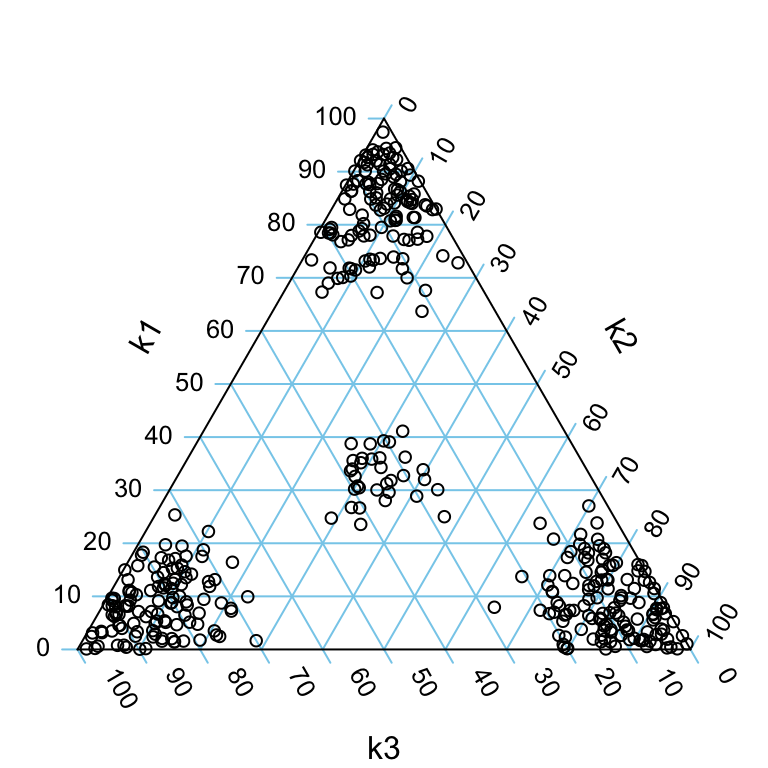
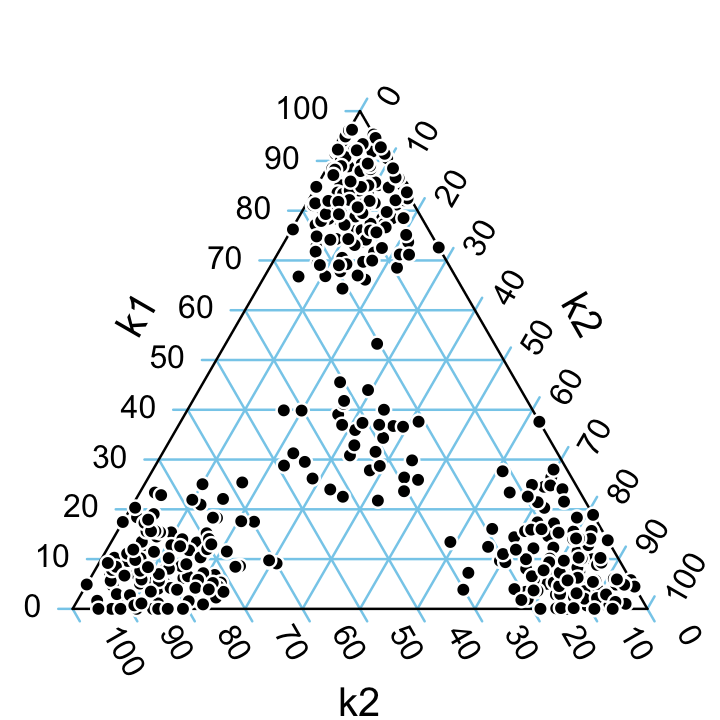
Implemented function plot_tsne for topics_vs_clusters.

diff --git a/docs/topics_vs_clusters.html b/docs/topics_vs_clusters.html
@@ -303,7 +303,7 @@ $(document).ready(function () {
 
 <p>
 <button type="button" class="btn btn-default btn-workflowr btn-workflowr-report" data-toggle="collapse" data-target="#workflowr-report">
-<span class="glyphicon glyphicon-list" aria-hidden="true"></span> workflowr <span class="glyphicon glyphicon-ok text-success" aria-hidden="true"></span>
+<span class="glyphicon glyphicon-list" aria-hidden="true"></span> workflowr <span class="glyphicon glyphicon-exclamation-sign text-danger" aria-hidden="true"></span>
 </button>
 </p>
 <div id="workflowr-report" class="collapse">
@@ -312,7 +312,7 @@ $(document).ready(function () {
 <a data-toggle="tab" href="#summary">Summary</a>
 </li>
 <li>
-<a data-toggle="tab" href="#checks"> Checks <span class="glyphicon glyphicon-ok text-success" aria-hidden="true"></span> </a>
+<a data-toggle="tab" href="#checks"> Checks <span class="glyphicon glyphicon-exclamation-sign text-danger" aria-hidden="true"></span> </a>
 </li>
 <li>
 <a data-toggle="tab" href="#versions">Past versions</a>
@@ -324,7 +324,7 @@ $(document).ready(function () {
 <strong>Last updated:</strong> 2020-08-13
 </p>
 <p>
-<strong>Checks:</strong> <span class="glyphicon glyphicon-ok text-success" aria-hidden="true"></span> 7 <span class="glyphicon glyphicon-exclamation-sign text-danger" aria-hidden="true"></span> 0
+<strong>Checks:</strong> <span class="glyphicon glyphicon-ok text-success" aria-hidden="true"></span> 6 <span class="glyphicon glyphicon-exclamation-sign text-danger" aria-hidden="true"></span> 1
 </p>
 <p>
 <strong>Knit directory:</strong> <code>single-cell-topics/analysis/</code> <span class="glyphicon glyphicon-question-sign" aria-hidden="true" title="This is the local directory in which the code in this file was executed."> </span>
@@ -340,12 +340,12 @@ This reproducible <a href="http://rmarkdown.rstudio.com">R Markdown</a> analysis
 <div class="panel panel-default">
 <div class="panel-heading">
 <p class="panel-title">
-<a data-toggle="collapse" data-parent="#workflowr-checks" href="#strongRMarkdownfilestronguptodate"> <span class="glyphicon glyphicon-ok text-success" aria-hidden="true"></span> <strong>R Markdown file:</strong> up-to-date </a>
+<a data-toggle="collapse" data-parent="#workflowr-checks" href="#strongRMarkdownfilestronguncommittedchanges"> <span class="glyphicon glyphicon-exclamation-sign text-danger" aria-hidden="true"></span> <strong>R Markdown file:</strong> uncommitted changes </a>
 </p>
 </div>
-<div id="strongRMarkdownfilestronguptodate" class="panel-collapse collapse">
+<div id="strongRMarkdownfilestronguncommittedchanges" class="panel-collapse collapse">
 <div class="panel-body">
-<p>Great! Since the R Markdown file has been committed to the Git repository, you know the exact version of the code that produced these results.</p>
+<p>The R Markdown file has unstaged changes. To know which version of the R Markdown file created these results, you’ll want to first commit it to the Git repo. If you’re still working on the analysis, you can ignore this warning. When you’re finished, you can run <code>wflow_publish</code> to commit the R Markdown file and build the HTML.</p>
 </div>
 </div>
 </div>
@@ -412,16 +412,16 @@ This reproducible <a href="http://rmarkdown.rstudio.com">R Markdown</a> analysis
 <div class="panel panel-default">
 <div class="panel-heading">
 <p class="panel-title">
-<a data-toggle="collapse" data-parent="#workflowr-checks" href="#strongRepositoryversionstrongahrefhttpsgithubcomstephenslabsinglecelltopicstree41b9d8a487fbffcc681161f890de309888069e74targetblank41b9d8aa"> <span class="glyphicon glyphicon-ok text-success" aria-hidden="true"></span> <strong>Repository version:</strong> <a href="https://github.com/stephenslab/single-cell-topics/tree/41b9d8a487fbffcc681161f890de309888069e74" target="_blank">41b9d8a</a> </a>
+<a data-toggle="collapse" data-parent="#workflowr-checks" href="#strongRepositoryversionstrongahrefhttpsgithubcomstephenslabsinglecelltopicstreec6f10e32f86179debd20004c287691eeb9d6bea4targetblankc6f10e3a"> <span class="glyphicon glyphicon-ok text-success" aria-hidden="true"></span> <strong>Repository version:</strong> <a href="https://github.com/stephenslab/single-cell-topics/tree/c6f10e32f86179debd20004c287691eeb9d6bea4" target="_blank">c6f10e3</a> </a>
 </p>
 </div>
[2 lines of base64/hex data omitted]
 <div class="panel-body">
 <p>
 Great! You are using Git for version control. Tracking code development and connecting the code version to the results is critical for reproducibility.
 </p>
 <p>
-The results in this page were generated with repository version <a href="https://github.com/stephenslab/single-cell-topics/tree/41b9d8a487fbffcc681161f890de309888069e74" target="_blank">41b9d8a</a>. See the <em>Past versions</em> tab to see a history of the changes made to the R Markdown and HTML files.
+The results in this page were generated with repository version <a href="https://github.com/stephenslab/single-cell-topics/tree/c6f10e32f86179debd20004c287691eeb9d6bea4" target="_blank">c6f10e3</a>. See the <em>Past versions</em> tab to see a history of the changes made to the R Markdown and HTML files.
 </p>
 <p>
 Note that you need to be careful to ensure that all relevant files for the analysis have been committed to Git prior to generating the results (you can use <code>wflow_publish</code> or <code>wflow_git_commit</code>). workflowr only checks the R Markdown file, but you know if there are other scripts or data files that it depends on. Below is the status of the Git repository when the results were generated:
@@ -438,6 +438,10 @@ Ignored files:
     Ignored:    output/pbmc-purified/fits-pbmc-purified.RData
     Ignored:    output/pulseseq/fits-pulseseq.RData
     Ignored:    output/pulseseq/rds/
+
+Unstaged changes:
+    Modified:   analysis/topics_vs_clusters.Rmd
+    Modified:   code/functions_for_topics_vs_clusters.R
 
 </code></pre>
 <p>
@@ -476,6 +480,57 @@ Message
 </tr>
 </thead>
 <tbody>
+<tr>
+<td>
+Rmd
+</td>
+<td>
+<a href="https://github.com/stephenslab/single-cell-topics/blob/c6f10e32f86179debd20004c287691eeb9d6bea4/analysis/topics_vs_clusters.Rmd" target="_blank">c6f10e3</a>
+</td>
+<td>
+Peter Carbonetto
+</td>
+<td>
+2020-08-13
+</td>
+<td>
+Added tsne plot to topics_vs_clusters vignette.
+</td>
+</tr>
+<tr>
+<td>
+Rmd
+</td>
+<td>
+<a href="https://github.com/stephenslab/single-cell-topics/blob/a3115f21cd3c191ac173b0cda4682c5bf900d97d/analysis/topics_vs_clusters.Rmd" target="_blank">a3115f2</a>
+</td>
+<td>
+Peter Carbonetto
+</td>
+<td>
+2020-08-13
+</td>
+<td>
+Working on topics_vs_clusters vignette.
+</td>
+</tr>
+<tr>
+<td>
+html
+</td>
+<td>
+<a href="https://rawcdn.githack.com/stephenslab/single-cell-topics/303c6e4aedbee78e2892100c7d111b67d41532f0/docs/topics_vs_clusters.html" target="_blank">303c6e4</a>
+</td>
+<td>
+Peter Carbonetto
+</td>
+<td>
+2020-08-13
+</td>
+<td>
+Build site.
+</td>
+</tr>
 <tr>
 <td>
 Rmd
@@ -603,43 +658,67 @@ Created topics_vs_clusters.Rmd.
 </div>
 </div>
 <p><em>Add introductory text here.</em></p>
-<p>These are thee packages used in the analysis below.</p>
+<p>Load packages used in the analysis below, as well as some functions written for this analysis.</p>
 <pre class="r"><code>library(ggplot2)
 library(cowplot)
-library(Ternary)</code></pre>
-<div id="simulate-data" class="section level2">
-<h2>Simulate data</h2>
-<p><em>Add text here.</em></p>
-<pre class="r"><code>n &lt;- 400
-m &lt;- 40
-s &lt;- 1000
-k &lt;- 3</code></pre>
-<p>Generate the “gene programs”; that is, the <span class="math inline">\(m \times k\)</span> matrix of gene frequencies, <span class="math inline">\(F\)</span>, by drawing numbers uniformly at random from <span class="math inline">\([0, 1]\)</span>. Each column of <span class="math inline">\(F\)</span> is a gene program.</p>
+library(Ternary)
+library(Rtsne)
+library(fastTopics)
+source(&quot;../code/functions_for_topics_vs_clusters.R&quot;)</code></pre>
+<p>Simulate a gene expression data set.</p>
 <pre class="r"><code>set.seed(1)
-F &lt;- matrix(runif(m*k),m,k)</code></pre>
-<p>Generate the topic proportions; that is, for each sample <span class="math inline">\(i = 1, \ldots, n\)</span>, the proportion that each of the gene programs contributes to that sample. For 90% of the samples, the counts are generated primarily by a single gene program; the remaining samples are generated by sampling roughly equally from all three gene programs.</p>
-<pre class="r"><code>L &lt;- matrix(0,n,k)
-for (i in 1:n) {
-  if (runif(1) &lt; 0.9) {
-    x &lt;- rep(0,k)
-    x[sample(k,1)] &lt;- 1
-  } else
-    x &lt;- rep(1/k,k)
-  x &lt;- x + abs(rnorm(k,0,0.15))
-  L[i,] &lt;- x/sum(x)
-}</code></pre>
-<p>Simulate the <span class="math inline">\(n \times m\)</span> counts from the multinomial topic model.</p>
-<pre class="r"><code>X &lt;- matrix(0,n,m)
-P &lt;- tcrossprod(L,F)
-for (i in 1:n)
-  X[i,] &lt;- rmultinom(1,s,P[i,])</code></pre>
-<p>Plot the topic proportions.</p>
+dat &lt;- simulate_toy_gene_data(n = 400,m = 40,k = 3,s = 1000)
+X   &lt;- dat$X</code></pre>
+<p>Fit a multinomial topic model to these data.</p>
+<pre class="r"><code>fit &lt;- fit_poisson_nmf(X,k = 3,numiter = 100,verbose = FALSE,
+                       control = list(extrapolate = TRUE))
+fit &lt;- poisson2multinom(fit)</code></pre>
+<p>Plot the estimated topic proportions.</p>
 <pre class="r"><code>par(mar = c(0,0,0,0))
-colnames(L) &lt;- paste0(&quot;k&quot;,1:k)
-TernaryPlot(alab = &quot;k1&quot;,blab = &quot;k2&quot;,clab = &quot;k3&quot;,grid.col = &quot;skyblue&quot;,
-            grid.minor.lines = 0)
-TernaryPoints(as.data.frame(L),pch = 21,cex = 0.8)</code></pre>
-<p><img src="figure/topics_vs_clusters.Rmd/plot-topic-proportions-1.png" width="384" style="display: block; margin: auto;" /></p>
+create_ternary_plot(fit$L)</code></pre>
+<p><img src="figure/topics_vs_clusters.Rmd/plot-topic-proportions-1.png" width="360" style="display: block; margin: auto;" /></p>
+<p>
+<button type="button" class="btn btn-default btn-xs btn-workflowr btn-workflowr-fig" data-toggle="collapse" data-target="#fig-plot-topic-proportions-1">
+Past versions of plot-topic-proportions-1.png
+</button>
+</p>
+<div id="fig-plot-topic-proportions-1" class="collapse">
+<div class="table-responsive">
+<table class="table table-condensed table-hover">
+<thead>
+<tr>
+<th>
+Version
+</th>
+<th>
+Author
+</th>
+<th>
+Date
+</th>
+</tr>
+</thead>
+<tbody>
+<tr>
+<td>
+<a href="https://github.com/stephenslab/single-cell-topics/blob/303c6e4aedbee78e2892100c7d111b67d41532f0/docs/figure/topics_vs_clusters.Rmd/plot-topic-proportions-1.png" target="_blank">303c6e4</a>
+</td>
+<td>
+Peter Carbonetto
+</td>
+<td>
+2020-08-13
+</td>
+</tr>
+</tbody>
+</table>
+</div>
+</div>
+<p>To illustrate clustering, project the samples onto a 2-d embedding using the t-SNE method, and, to compare with the topic modeling, label the samples by the topic that is estimated to contribute most to that sample.</p>
+<pre class="r"><code>tsne &lt;- Rtsne(X,2,pca = FALSE,normalize = FALSE,theta = 0.1,perplexity = 100,
+              max_iter = 1000)
+plot_tsne(tsne,fit$L)</code></pre>
+<p><img src="figure/topics_vs_clusters.Rmd/tsne-1.png" width="360" style="display: block; margin: auto;" /></p>
 <br>
 <p>
 <button type="button" class="btn btn-default btn-workflowr btn-workflowr-sessioninfo" data-toggle="collapse" data-target="#workflowr-sessioninfo" style="display: block;">
@@ -663,24 +742,33 @@ TernaryPoints(as.data.frame(L),pch = 21,cex = 0.8)</code></pre>
 # [1] stats     graphics  grDevices utils     datasets  methods   base     
 # 
 # other attached packages:
-# [1] Ternary_1.1.4 cowplot_1.0.0 ggplot2_3.3.0
+# [1] fastTopics_0.3-145 Rtsne_0.15         Ternary_1.1.4      cowplot_1.0.0     
+# [5] ggplot2_3.3.0     
 # 
 # loaded via a namespace (and not attached):
-#  [1] Rcpp_1.0.3           compiler_3.6.2       pillar_1.4.3        
-#  [4] later_1.0.0          git2r_0.26.1         workflowr_1.6.2.9000
-#  [7] tools_3.6.2          digest_0.6.23        viridisLite_0.3.0   
-# [10] evaluate_0.14        lifecycle_0.1.0      tibble_2.1.3        
-# [13] gtable_0.3.0         pkgconfig_2.0.3      rlang_0.4.5         
-# [16] yaml_2.2.0           xfun_0.11            withr_2.1.2         
-# [19] stringr_1.4.0        dplyr_0.8.3          knitr_1.26          
-# [22] fs_1.3.1             rprojroot_1.3-2      grid_3.6.2          
-# [25] tidyselect_0.2.5     glue_1.3.1           R6_2.4.1            
-# [28] rmarkdown_2.3        purrr_0.3.3          magrittr_1.5        
-# [31] whisker_0.4          backports_1.1.5      scales_1.1.0        
-# [34] promises_1.1.0       htmltools_0.4.0      assertthat_0.2.1    
-# [37] colorspace_1.4-1     httpuv_1.5.2         stringi_1.4.3       
-# [40] munsell_0.5.0        crayon_1.3.4</code></pre>
-</div>
+#  [1] ggrepel_0.9.0        Rcpp_1.0.3           lattice_0.20-38     
+#  [4] tidyr_1.0.0          prettyunits_1.1.1    assertthat_0.2.1    
+#  [7] zeallot_0.1.0        rprojroot_1.3-2      digest_0.6.23       
+# [10] R6_2.4.1             backports_1.1.5      MatrixModels_0.4-1  
+# [13] evaluate_0.14        coda_0.19-3          httr_1.4.1          
+# [16] pillar_1.4.3         rlang_0.4.5          progress_1.2.2      
+# [19] lazyeval_0.2.2       data.table_1.12.8    irlba_2.3.3         
+# [22] SparseM_1.78         whisker_0.4          Matrix_1.2-18       
+# [25] rmarkdown_2.3        labeling_0.3         stringr_1.4.0       
+# [28] htmlwidgets_1.5.1    munsell_0.5.0        compiler_3.6.2      
+# [31] httpuv_1.5.2         xfun_0.11            pkgconfig_2.0.3     
+# [34] mcmc_0.9-6           htmltools_0.4.0      tidyselect_0.2.5    
+# [37] tibble_2.1.3         workflowr_1.6.2.9000 quadprog_1.5-8      
+# [40] viridisLite_0.3.0    crayon_1.3.4         dplyr_0.8.3         
+# [43] withr_2.1.2          later_1.0.0          MASS_7.3-51.4       
+# [46] grid_3.6.2           jsonlite_1.6         gtable_0.3.0        
+# [49] lifecycle_0.1.0      git2r_0.26.1         magrittr_1.5        
+# [52] scales_1.1.0         RcppParallel_4.4.4   stringi_1.4.3       
+# [55] farver_2.0.1         fs_1.3.1             promises_1.1.0      
+# [58] vctrs_0.2.1          tools_3.6.2          glue_1.3.1          
+# [61] purrr_0.3.3          hms_0.5.2            yaml_2.2.0          
+# [64] colorspace_1.4-1     plotly_4.9.2         knitr_1.26          
+# [67] quantreg_5.54        MCMCpack_1.4-5</code></pre>
 </div>
 
 
